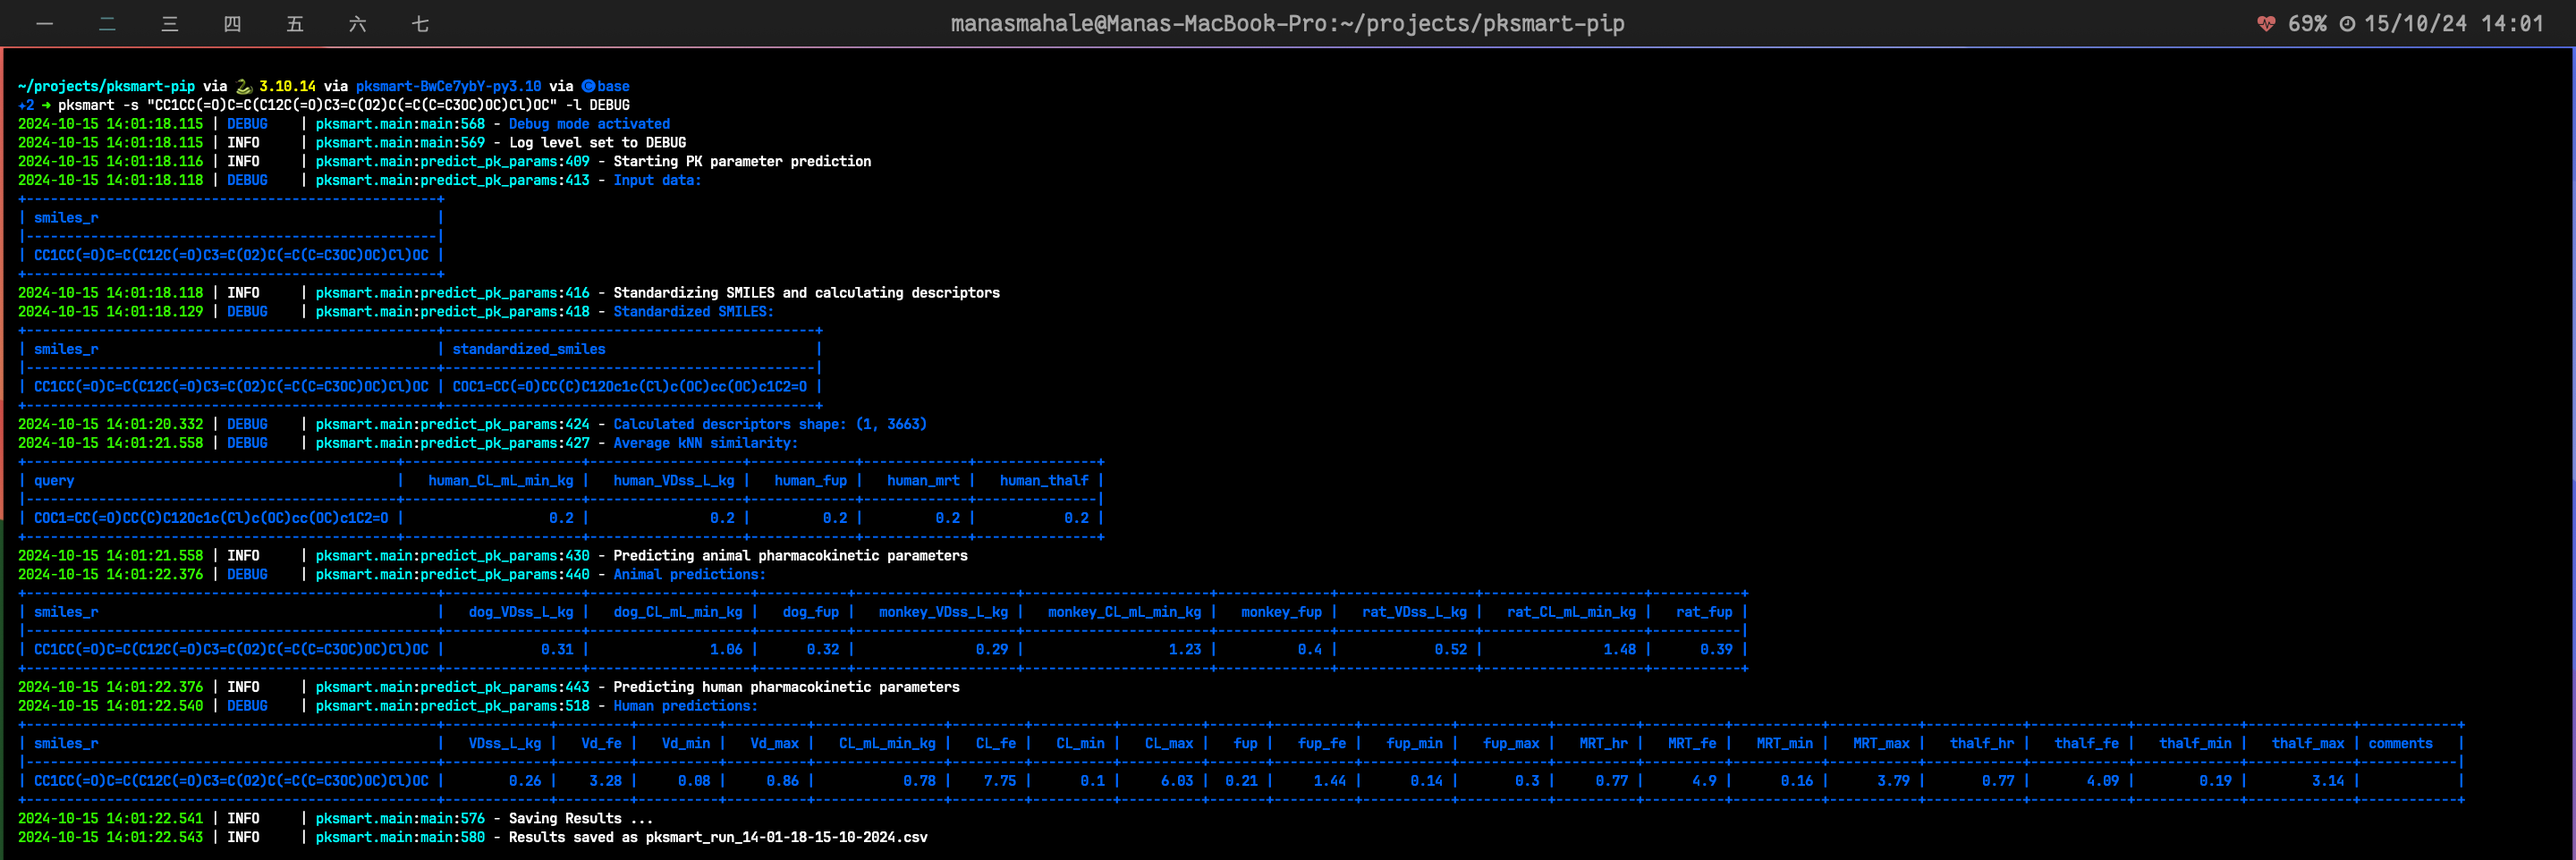
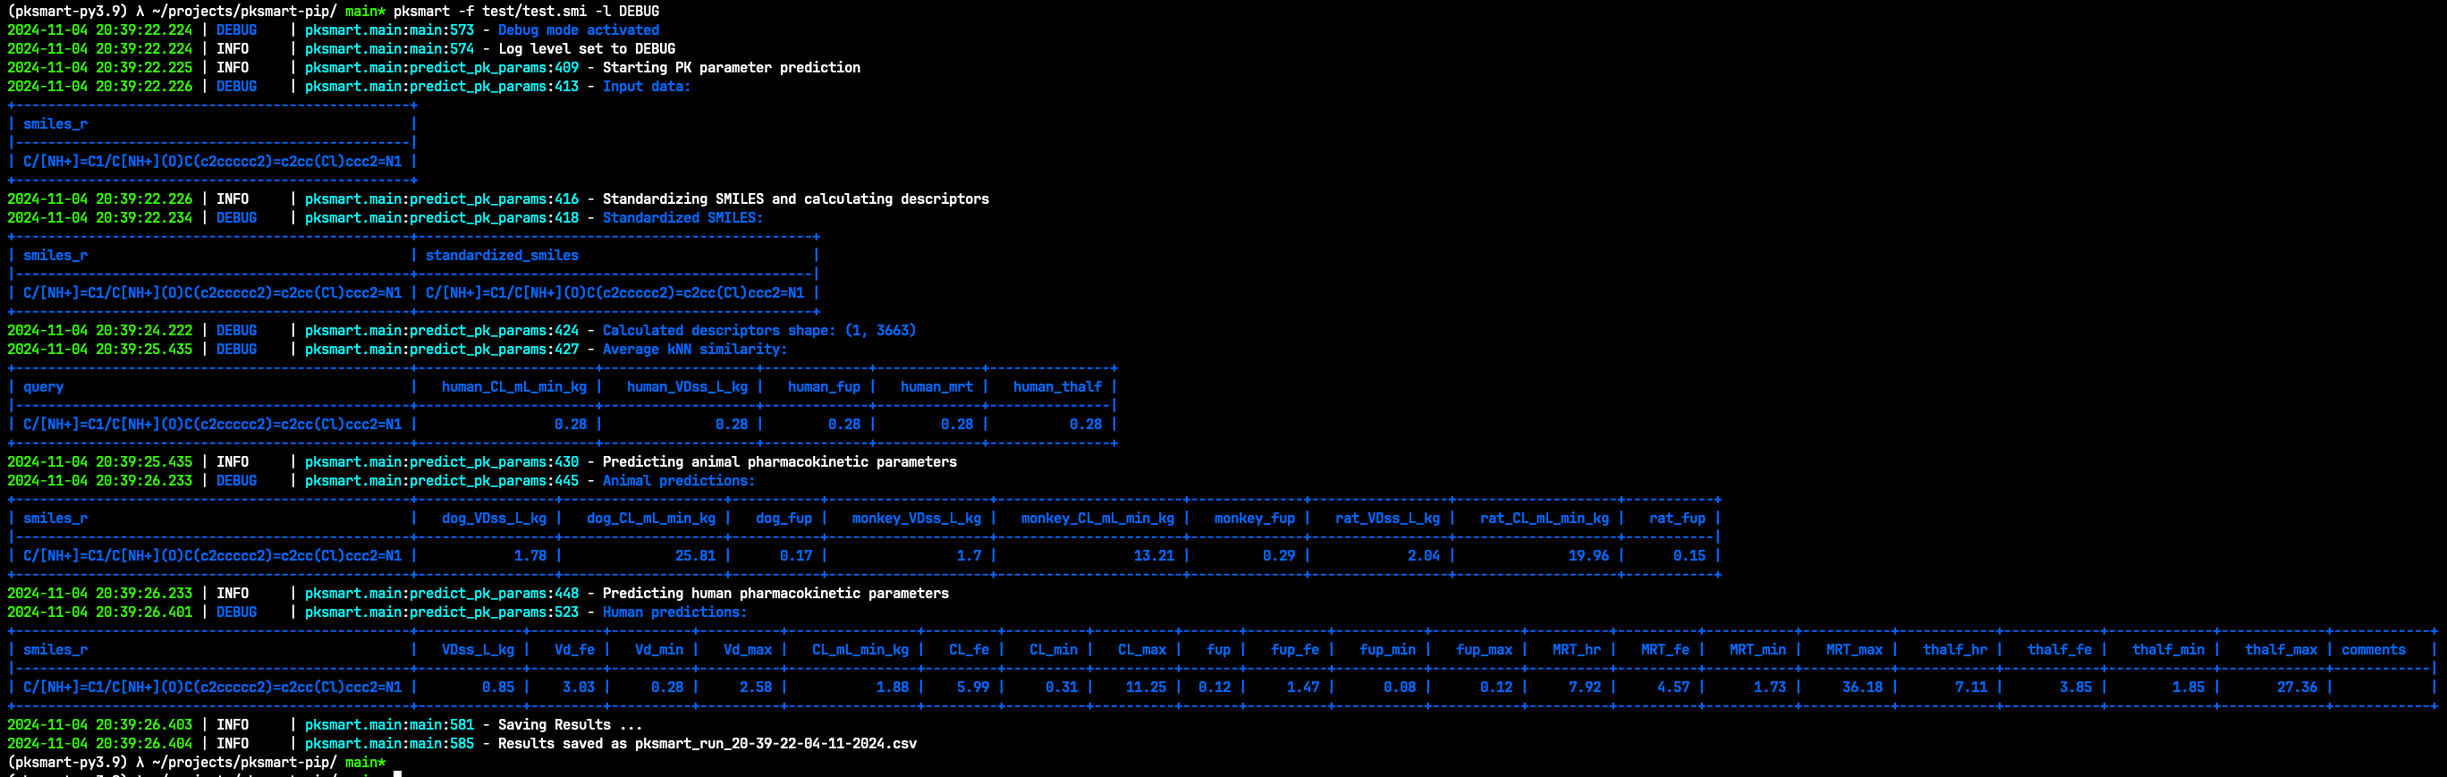
update

Changed region(s): [[0.0, 0.0, 1.0, 1.0]]

diff --git a/pksmart/main.py b/pksmart/main.py
@@ -23,7 +23,7 @@ SCRIPT_DIR = os.path.dirname(os.path.abspath(__file__))
 warnings.filterwarnings("ignore", category=UserWarning)
 
 # Define the threshold and the alert message
-threshold = 0.2
+threshold = 0.25
 now = datetime.now()
 
 banner = """
@@ -437,7 +437,12 @@ def predict_pk_params(smiles:str):
         "rat_VDss_L_kg", "rat_CL_mL_min_kg", "rat_fup"
     ]
 
-    logger.debug(f"Animal predictions:\n{tabulate(animal_predictions[['smiles_r'] + animal_columns].round(2).head(), headers='keys', tablefmt='psql', showindex=False)}")
+    display_predictions = animal_predictions.copy()
+    for key in animal_columns:
+        if not key.endswith("_fup"):
+            display_predictions[key] = 10**display_predictions[key]
+
+    logger.debug(f"Animal predictions:\n{tabulate(display_predictions[['smiles_r'] + animal_columns].round(2).head(), headers='keys', tablefmt='psql', showindex=False)}")
 
     # Run predictions for human models
     logger.info("Predicting human pharmacokinetic parameters")
@@ -448,7 +453,7 @@ def predict_pk_params(smiles:str):
 
     human_predictions['smiles_r'] = data_mordred['smiles_r']
 
-    human_predictions['VDss_L_kg'] = predict_VDss(data_mordred, model_features)
+    human_predictions['VDss_L_kg'] = 10**predict_VDss(data_mordred, model_features)
     Vd_Tc = ts_data["human_VDss_L_kg"]
 
     with open(os.path.join(SCRIPT_DIR, "data", "folderror_human_VDss_L_kg_generator.sav"), 'rb') as f:
@@ -456,19 +461,19 @@ def predict_pk_params(smiles:str):
         human_predictions['Vd_fe'] = loaded.predict(Vd_Tc.values.reshape(-1, 1)).round(2)
     human_predictions['Vd_min'] = human_predictions['VDss_L_kg'] / human_predictions['Vd_fe']
     human_predictions['Vd_max'] = human_predictions['VDss_L_kg'] * human_predictions['Vd_fe']
-    alert_message = "Alert: This Molecule May Be Out Of AD for VDss (<0.2 Tc with Training data)"
+    alert_message = f"Alert: This Molecule May Be Out Of AD for VDss (<{threshold} Tc with Training data)"
     human_predictions['comments'] = ts_data['human_VDss_L_kg'].apply(
         lambda x: f"{alert_message}" if x < threshold else ""
     )
 
-    human_predictions['CL_mL_min_kg'] = predict_CL(data_mordred, model_features)
+    human_predictions['CL_mL_min_kg'] = 10**predict_CL(data_mordred, model_features)
     CL_Tc =  ts_data["human_CL_mL_min_kg"]
     with open(os.path.join(SCRIPT_DIR, "data", "folderror_human_CL_mL_min_kg_generator.sav"), 'rb') as f:    
         loaded = pickle.load(f)
         human_predictions["CL_fe"]= loaded.predict(CL_Tc.values.reshape(-1, 1)).round(2)
     human_predictions['CL_min'] = human_predictions['CL_mL_min_kg'] / human_predictions['CL_fe']
     human_predictions['CL_max'] = human_predictions['CL_mL_min_kg'] * human_predictions['CL_fe']
-    alert_message = "Alert: This Molecule May Be Out Of AD for CL (<0.2 Tc with Training data)"
+    alert_message = f"Alert: This Molecule May Be Out Of AD for CL (<{threshold} Tc with Training data)"
     human_predictions['comments'] = human_predictions['comments'] + ts_data['human_CL_mL_min_kg'].apply(
         lambda x: f"\n{alert_message}" if x < threshold else ""
     )
@@ -479,34 +484,34 @@ def predict_pk_params(smiles:str):
         loaded = pickle.load(f)
         human_predictions["fup_fe"]= loaded.predict(fup_Tc.values.reshape(-1, 1)).round(2)
     human_predictions['fup_min'] = human_predictions['fup'] / human_predictions['fup_fe']
-    human_predictions['fup_max'] = human_predictions['fup'] * human_predictions['fup_fe']
-    alert_message = "Alert: This Molecule May Be Out Of AD for fup (<0.2 Tc with Training data)"
+    human_predictions['fup_max'] = human_predictions['fup'] * human_predictions['fup_fe'].clip(upper=1)
+    alert_message = f"Alert: This Molecule May Be Out Of AD for fup (<{threshold} Tc with Training data)"
 
     human_predictions['comments'] = human_predictions['comments'] + ts_data['human_fup'].apply(
         lambda x: f"\n{alert_message}" if x < threshold else ""
     )
 
-    human_predictions['MRT_hr'] = predict_MRT(data_mordred, model_features)
+    human_predictions['MRT_hr'] = 10**predict_MRT(data_mordred, model_features)
     MRT_Tc =  ts_data["human_mrt"]
     with open(os.path.join(SCRIPT_DIR, "data", "folderror_human_mrt_generator.sav"), 'rb') as f:
         loaded = pickle.load(f)
         human_predictions["MRT_fe"]= loaded.predict(MRT_Tc.values.reshape(-1, 1)).round(2)
     human_predictions['MRT_min'] = human_predictions['MRT_hr'] / human_predictions['MRT_fe']
     human_predictions['MRT_max'] = human_predictions['MRT_hr'] * human_predictions['MRT_fe']
-    alert_message = "Alert: This Molecule May Be Out Of AD for MRT (<0.2 Tc with Training data)"
+    alert_message = f"Alert: This Molecule May Be Out Of AD for MRT (<{threshold} Tc with Training data)"
 
     human_predictions['comments'] = human_predictions['comments'] + ts_data['human_mrt'].apply(
         lambda x: f"\n{alert_message}" if x < threshold else ""
     )
 
-    human_predictions['thalf_hr'] = predict_thalf(data_mordred, model_features)
+    human_predictions['thalf_hr'] = 10**predict_thalf(data_mordred, model_features)
     thalf_Tc =  ts_data["human_thalf"]
     with open(os.path.join(SCRIPT_DIR, "data", "folderror_human_thalf_generator.sav"), 'rb') as f:
         loaded = pickle.load(f)
         human_predictions["thalf_fe"]= loaded.predict(thalf_Tc.values.reshape(-1, 1)).round(2)
     human_predictions['thalf_min'] = human_predictions['thalf_hr'] / human_predictions['thalf_fe']
     human_predictions['thalf_max'] = human_predictions['thalf_hr'] * human_predictions['thalf_fe']
-    alert_message = "Alert: This Molecule May Be Out Of AD for thalf (<0.2 Tc with Training data)"
+    alert_message = f"Alert: This Molecule May Be Out Of AD for thalf (<{threshold} Tc with Training data)"
 
     human_predictions['comments'] = human_predictions['comments'] + ts_data['human_thalf'].apply(
         lambda x: f"\n{alert_message}" if x < threshold else ""
@@ -517,7 +522,7 @@ def predict_pk_params(smiles:str):
     # Display the human predictions in a table
     logger.debug(f"Human predictions:\n{tabulate(human_predictions.round(2).head(), headers='keys', tablefmt='psql', showindex=False)}")
 
-    combined_predictions = pd.merge(human_predictions, animal_predictions[animal_columns + ['smiles_r']], on='smiles_r')
+    combined_predictions = pd.merge(human_predictions, display_predictions[animal_columns + ['smiles_r']], on='smiles_r')
 
     column_mapping = {
         "VDss": "Volume_of_distribution_(VDss)(L/kg)",

diff --git a/test/test_pksmart.py b/test/test_pksmart.py
@@ -1,5 +1,5 @@
 import pksmart
 
 if __name__ == "__main__":
-    out = pksmart.predict_pk_params("C#Cc1cccc(Nc2ncnc3cc(OC)c(OCCCCCCC(O)=NO)cc23)c1")
+    out = pksmart.predict_pk_params("C/[NH+]=C1/C[NH+](O)C(c2ccccc2)=c2cc(Cl)ccc2=N1")
     print(out)

diff --git a/README.md b/README.md
@@ -31,11 +31,11 @@ Simply run `pksmart` or `pksmart -h` or `pksmart --help` to get helper.
 ### Running PKSmart as CLI
 Run `pksmart -s` or `pksmart --smi` or `pksmart --smiles` to run inference on a single SMILES string.
 
-![](https://github.com/Manas02/pksmart-pip/raw/main/pksmart_run_file.png?raw=True)
+![](https://github.com/Manas02/pksmart-pip/raw/main/pksmart_run_smiles.png?raw=True)
 
 Alternatively, Run `pksmart -f` or `pksmart --file` to run inference using a file containing newline separated SMILES strings.
 
-![](https://github.com/Manas02/pksmart-pip/raw/main/pksmart_run_smiles.png?raw=True)
+![](https://github.com/Manas02/pksmart-pip/raw/main/pksmart_run_file.png?raw=True)
 
 ### Running PKSmart as Library
 
